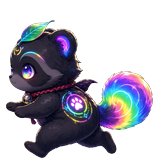
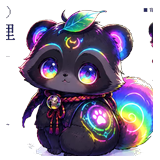
Give 光丸 the paw trail, a front face, and Sumi's size.

diff --git a/app.js b/app.js
@@ -1,4 +1,4 @@
-const VERSION = "0.4.118";
+const VERSION = "0.4.119";
 const NEON = [0xff3d8a, 0x39f0ff, 0xc8ff3a, 0xff9a3a, 0xb44dff];
 const SHEETS = {
   sumi: "art/sumi/sheet.png",
@@ -102,12 +102,11 @@ function kit(e) {
     return {
       color: 0xf8b500,
       hp: 34,
-      speed: 175,
+      speed: 185,
       rate: 520,
       skill: "光の足跡",
-      kind: "puff",
+      kind: "paws",
       sideOnly: true,
-      scale: 0.7,
       dmg: 5,
     };
   }
@@ -1826,6 +1825,8 @@ function bootArena() {
         if (ov) ov.classList.add("hidden");
         if (this.physics && this.physics.world) this.physics.world.resume();
       });
+      this.paws = [];
+      this.pawAcc = 0;
       this.cursors = this.input.keyboard.addKeys("W,A,S,D,UP,DOWN,LEFT,RIGHT");
       this.foes = this.physics.add.group();
       this.shots = this.physics.add.group();
@@ -2744,7 +2745,61 @@ function bootArena() {
         }
       }
     }
+    dropPaw() {
+      const colors = [0xff5ad5, 0xff9a3a, 0xc8ff3a, 0x39f0ff, 0x6a7dff, 0xb44dff];
+      const c = colors[this.paws.length % colors.length];
+      const g = this.add.graphics();
+      const x = this.player.x - (this.face > 0 ? 8 : -8);
+      const y = this.player.y + 16;
+      g.fillStyle(c, 0.9);
+      g.fillCircle(0, 3, 4.5);
+      g.fillCircle(-5, -3, 2);
+      g.fillCircle(-1.5, -6, 1.8);
+      g.fillCircle(2, -6, 1.8);
+      g.fillCircle(5.5, -2.5, 1.8);
+      g.setPosition(x, y);
+      g.setDepth(2);
+      this.paws.push({ g, x, y, until: this.time.now + 1400, tick: 0 });
+      this.tweens.add({ targets: g, alpha: 0.15, delay: 800, duration: 600 });
+    }
+    grazePaw(foe) {
+      if (!foe.active || foe.hp <= 1) return;
+      const now = this.time.now;
+      if (foe.pawUntil && now < foe.pawUntil) return;
+      foe.pawUntil = now + 280;
+      const dmg = Math.min(k.dmg, foe.hp - 1);
+      if (dmg < 1) return;
+      foe.hp -= dmg;
+      this.flash(foe);
+      this.pop(foe.x, foe.y - 8, dmg, "#b44dff", "16px");
+    }
+    tickPaws(delta) {
+      const moving = this.player && this.player.body && this.player.body.speed > 8;
+      const hayate = this.time.now < this.fastUntil;
+      this.pawAcc += delta;
+      const gap = hayate ? 90 : 200;
+      if (moving && this.pawAcc > gap) {
+        this.pawAcc = 0;
+        this.dropPaw();
+      }
+      const now = this.time.now;
+      this.paws = this.paws.filter((p) => {
+        if (now > p.until) {
+          p.g.destroy();
+          return false;
+        }
+        p.tick -= delta;
+        if (p.tick > 0) return true;
+        p.tick = 280;
+        this.foes.children.iterate((f) => {
+          if (!f || !f.active) return;
+          if (Phaser.Math.Distance.Between(p.x, p.y, f.x, f.y) < 22) this.grazePaw(f);
+        });
+        return true;
+      });
+    }
     fire() {
+      if (k.kind === "paws") return;
       if (k.kind === "puff") {
         const r = this.puffReach();
         const ring = this.add.circle(this.player.x, this.player.y, 8, k.color, 0.35);
@@ -2853,9 +2908,12 @@ function bootArena() {
         if (k.sideOnly) {
           if (moving && Math.abs(vx) > 0.01) this.face = vx > 0 ? 1 : -1;
           this.player.setFlipX(this.face > 0);
-          if (moving && Math.abs(vx) >= Math.abs(vy) && Math.abs(vx) > 0.01) {
+          if (moving) {
             this.player.anims.play("mate-run", true);
+            if (Math.abs(vy) > Math.abs(vx)) this.startVertBob();
+            else this.stopVertBob();
           } else {
+            this.stopVertBob();
             this.player.anims.stop();
             this.player.setFrame(1);
           }
@@ -3161,6 +3219,7 @@ function bootArena() {
         return;
       }
       this.move(delta);
+      if (k.kind === "paws") this.tickPaws(delta);
       if (k.kind === "spark") this.tickSparks(delta);
       this.secAcc += delta;
       if (this.secAcc >= 1000) {

diff --git a/index.html b/index.html
@@ -319,6 +319,6 @@
     navigator.serviceWorker.register("./sw.js", { scope: "./" }).catch(function () {});
   }
   </script>
-  <script src="app.js?v=0.4.118"></script>
+  <script src="app.js?v=0.4.119"></script>
 </body>
 </html>
